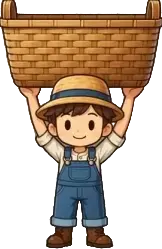
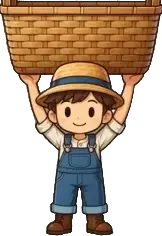
replaced player img with a cropped one

diff --git a/docs/Player.js b/docs/Player.js
@@ -173,6 +173,6 @@ class Player {
     }
 
     loadPlayer1Image() {
-        this.player1Image = loadImage("assets/player1-crop.webp");
+        this.player1Image = loadImage("assets/player1.webp");
     }
 }
